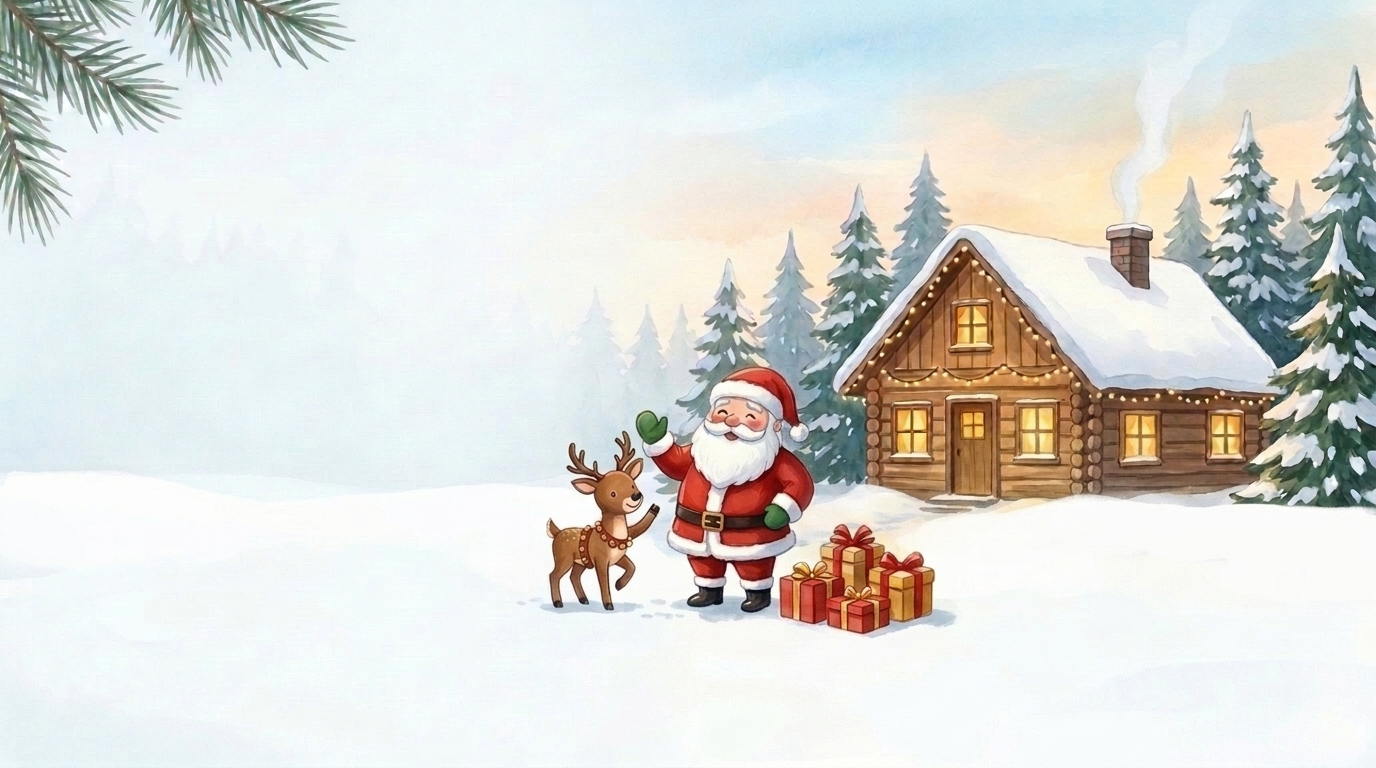
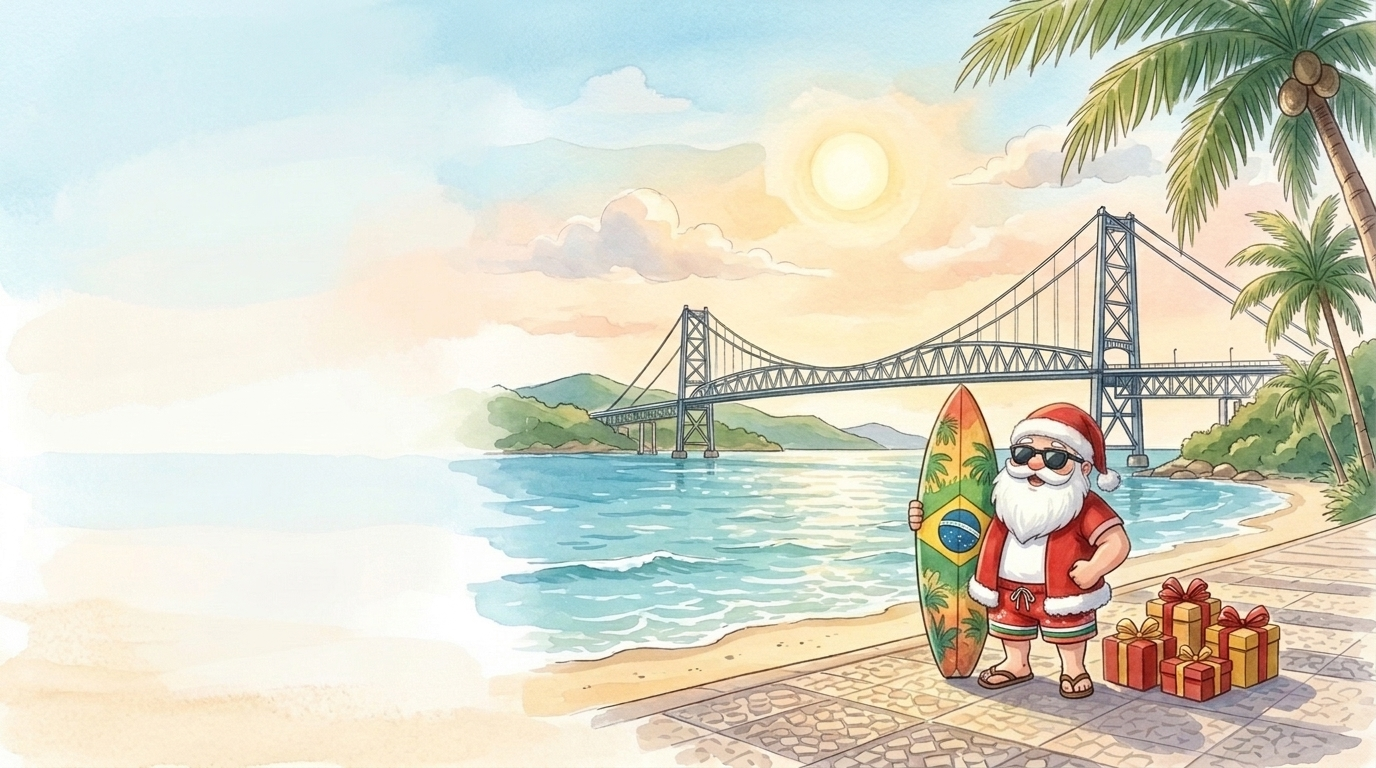
NATAL FLORIPA

diff --git a/app/(dashboard)/page.tsx b/app/(dashboard)/page.tsx
@@ -3598,10 +3598,13 @@ export default function DashboardPage() {
             {/* Header Section */}
             <div className="relative overflow-hidden rounded-3xl border border-sky-100/90 bg-white shadow-sm mb-12 min-h-[164px] lg:min-h-[212px] flex flex-col md:flex-row md:items-center justify-between gap-6 p-6 lg:p-8">
               <img
-                src="/images/christmas-hero-banner.jpg"
+                src={(!isEstagio && !isPJ) ? "/images/christmas-hero-banner-meta.jpg" : "/images/christmas-hero-banner.jpg"}
                 alt="Cenário natalino SharkConsig"
                 referrerPolicy="no-referrer"
-                className="absolute inset-0 w-full h-full object-cover object-[center_63%] pointer-events-none select-none"
+                className={cn(
+                  "absolute inset-0 w-full h-full object-cover pointer-events-none select-none",
+                  (!isEstagio && !isPJ) ? "object-[center_56%]" : "object-[center_63%]"
+                )}
               />
               <div
                 aria-hidden="true"

diff --git a/components/dashboard/admin-dashboard.tsx b/components/dashboard/admin-dashboard.tsx
@@ -3204,10 +3204,10 @@ export function AdminDashboard({
       {!onlyPropostasComerciais && !onlyFinanceiro && (
         <div className="relative overflow-hidden rounded-3xl border border-sky-100/90 bg-white shadow-sm mb-12 min-h-[164px] lg:min-h-[212px] flex flex-col md:flex-row md:items-center justify-between gap-6 p-6 lg:p-8">
           <img
-            src="/images/christmas-hero-banner.jpg"
+            src="/images/christmas-hero-banner-meta.jpg"
             alt="Cenário natalino SharkConsig"
             referrerPolicy="no-referrer"
-            className="absolute inset-0 w-full h-full object-cover object-[center_63%] pointer-events-none select-none"
+            className="absolute inset-0 w-full h-full object-cover object-[center_56%] pointer-events-none select-none"
           />
           <div
             aria-hidden="true"
